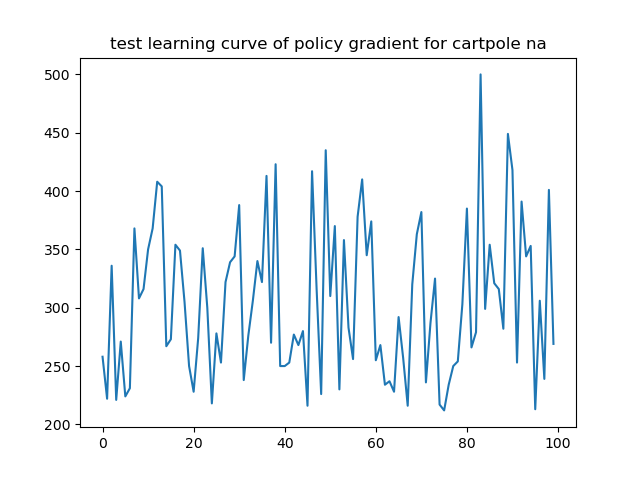
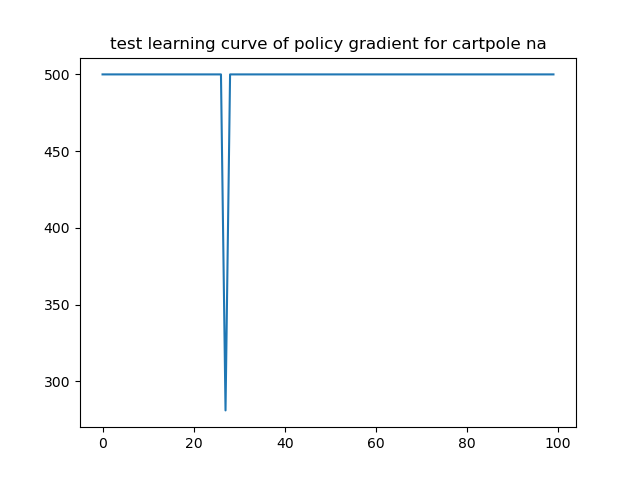
add double dqn

diff --git a/EasyRL/chapter7.py b/EasyRL/chapter7.py
@@ -1,0 +1,235 @@
+from audioop import bias
+from cmath import exp
+from re import U
+from turtle import done
+
+from matplotlib import markers
+import gym
+import math
+import random
+import numpy as np
+import torch
+import torch.nn as nn
+import matplotlib.pyplot as plt
+
+class MLP(nn.Module):
+    def __init__(
+        self,
+        input_dim: int,
+        hidden_dim: int,
+        output_dim: int,
+        bias: bool,
+    ):
+        super(MLP, self).__init__()
+        self.fc1 = nn.Linear(input_dim, hidden_dim, bias=bias)
+        self.fc2 = nn.Linear(hidden_dim, hidden_dim, bias=bias)
+        self.fc3 = nn.Linear(hidden_dim, output_dim, bias=bias)
+        self.gelu = nn.GELU()
+
+    def forward(self, x: torch.Tensor):
+        x = self.fc1(x)
+        x = self.gelu(x)
+        x = self.fc2(x)
+        x = self.gelu(x)
+        x = self.fc3(x)
+        return x
+
+class ReplayBuff:
+    def __init__(self, capacity):
+        self.capacity = capacity
+        self.buffer = []
+        self.position = 0
+
+    def push(self, state, action, reward, next_state, done):
+        if len(self.buffer) < self.capacity:
+            self.buffer.append(None)
+        self.buffer[self.position] = (state, action, reward, next_state, done)
+        self.position = (self.position + 1) % self.capacity
+    
+    def sample(self, batch_size):
+        batch = random.sample(self.buffer, batch_size)
+        state, action, reward, next_state, done = zip(*batch)
+        return state, action, reward, next_state, done
+
+    def __len__(self):
+        return len(self.buffer)
+
+
+class DoubleDQN(object):
+    def __init__(
+        self,
+        env_name: str,
+        capacity: int,
+        train_epochs: int,
+        test_epochs: int,
+        max_iterations: int,
+        epsilon_start: float,
+        epsilon_end: float,
+        epsilon_decay: float,
+        hidden_dim: int,
+        lr: float,
+        bias: bool,
+        seed: int,
+        update_epoch: int,
+        batch_size: int,
+        gamma: float,
+    ):
+        self.env = gym.make(env_name)
+        self.capacity = capacity
+        self.train_epochs = train_epochs
+        self.test_epochs = test_epochs
+        self.max_iterations = max_iterations
+        self.epsilon_start = epsilon_start
+        self.epsilon_end = epsilon_end
+        self.epsilon_decay = epsilon_decay
+        self.update_epoch = update_epoch
+        self.batch_size = batch_size
+        self.gamma = gamma
+
+        torch.manual_seed(seed)
+        self.env.seed(seed)
+        self.input_dim = input_dim = self.env.observation_space.shape[0]
+        self.output_dim = output_dim = self.env.action_space.n
+        self.device = torch.device("cuda" if torch.cuda.is_available() else "cpu")
+        self.policy_net = MLP(input_dim, hidden_dim, output_dim, bias).to(self.device)
+        self.target_net = MLP(input_dim, hidden_dim, output_dim, bias).to(self.device)
+        # Copy the parameters:
+        for target_param, param in zip(self.target_net.parameters(), self.policy_net.parameters()):
+            target_param.data.copy_(param.data)
+        self.optimizer = torch.optim.Adam(self.policy_net.parameters(), lr=lr)
+        self.memory = ReplayBuff(capacity)
+
+        self.frame_idx = 1
+
+    def get_epsilon(self):
+        self.frame_idx += 1
+        epsilon = self.epsilon_end + (self.epsilon_start - self.epsilon_end) * \
+            math.exp(-1. * self.frame_idx / self.epsilon_decay)
+        return epsilon
+
+    def choose_action(self, state, mode):
+        if mode == "train":
+            epsilon = self.get_epsilon()
+            if random.random() > epsilon:
+                with torch.no_grad():
+                    state = torch.tensor(np.array([state]), device=self.device, dtype=torch.float32)
+                    q_values = self.policy_net(state)
+                    action = q_values.max(1)[1].item()
+            else:
+                action = random.randrange(self.output_dim)
+            return action
+        else:
+            with torch.no_grad():
+                state = torch.tensor(np.array([state]), device=self.device, dtype=torch.float32)
+                q_values = self.policy_net(state)
+                action = q_values.max(1)[1].item()
+            return action
+
+    def update(self):
+        if len(self.memory) < self.batch_size:
+            return
+        state_batch, action_batch, reward_batch, next_state_batch, done_batch = self.memory.sample(self.batch_size)
+        state_batch = torch.tensor(state_batch, device=self.device, dtype=torch.float)
+        action_batch = torch.tensor(action_batch, device=self.device).unsqueeze(1)
+        reward_batch = torch.tensor(reward_batch, device=self.device, dtype=torch.float)
+        next_state_batch = torch.tensor(next_state_batch, device=self.device, dtype=torch.float)
+        done_batch = torch.tensor(np.float32(done_batch), device=self.device)
+
+        # DQN:
+        # q_values = self.policy_net(state_batch).gather(dim=1, index=action_batch)
+        # next_q_values = self.target_net(next_state_batch).max(1)[0].detach()
+        # expected_q_values = reward_batch + self.gamma * next_q_values * (1 - done_batch)
+        # loss = nn.MSELoss()(q_values, expected_q_values.unsqueeze(1))
+
+        q_values = self.policy_net(state_batch)
+        next_q_values = self.policy_net(next_state_batch)
+        q_value = q_values.gather(dim=1, index=action_batch)
+        next_target_values = self.target_net(next_state_batch)
+        next_target_q_value = next_target_values.gather(1, torch.max(next_q_values, 1)[1].unsqueeze(1)).squeeze(1)
+        q_target = reward_batch + self.gamma * (next_target_q_value) * (1 - done_batch)
+        loss = nn.MSELoss()(q_value, q_target.unsqueeze(1))
+
+        self.optimizer.zero_grad()
+        loss.backward()
+        for param in self.policy_net.parameters():
+            param.grad.data.clamp_(-1, 1)
+        self.optimizer.step()
+
+    def train(self):
+        rewards = []
+        ma_rewards = []
+        for num_epoch in range(self.train_epochs):
+            epoch_reward = 0
+            state = self.env.reset()
+            for i in range(self.max_iterations):
+                action = self.choose_action(state, "train")
+                next_state, reward, done, info = self.env.step(action)
+                self.memory.push(state, action, reward, next_state, done)
+                state = next_state
+                self.update()
+                epoch_reward += reward
+                if done:
+                    break
+            rewards.append(epoch_reward)
+            if ma_rewards:
+                ma_rewards.append(0.9 * ma_rewards[-1] + 0.1 * epoch_reward)
+            else:
+                ma_rewards.append(epoch_reward)
+            if num_epoch % self.update_epoch == 0:
+                self.target_net.load_state_dict(self.policy_net.state_dict())
+        self.plot(rewards, mode="train", extra="na")
+        self.plot(ma_rewards, mode="train", extra="ma")
+
+    def test(self):
+        rewards = []
+        ma_rewards = []
+        for num_epoch in range(self.test_epochs):
+            epoch_reward = 0.0
+            state = self.env.reset()
+            for i in range(self.max_iterations):
+                action = self.choose_action(state, "test")
+                next_state, reward, done, info = self.env.step(action)
+                state = next_state
+                epoch_reward += reward
+                if done:
+                    break
+            rewards.append(epoch_reward)
+            if ma_rewards:
+                ma_rewards.append(ma_rewards[-1] * 0.9 + epoch_reward * 0.1)
+            else:
+                ma_rewards.append(epoch_reward)
+        self.plot(rewards, mode="test", extra="na")
+        self.plot(ma_rewards, mode="test", extra="ma")
+
+    def plot(self, reward_list, mode: str, extra = str):
+        if mode == 'train':
+            plt.figure()
+            plt.title(f"train learning curve of policy gradient for cartpole {extra}")
+            plt.plot(reward_list)
+            plt.savefig(f"chapter_7_DoubleDQN_train {extra}.png")
+        elif mode == 'test':
+            plt.figure()
+            plt.title(f"test learning curve of policy gradient for cartpole {extra}")
+            plt.plot(reward_list)
+            plt.savefig(f"chapter_7_DoubleDQN_test {extra}.png")
+
+if __name__ == '__main__':
+    engine = DoubleDQN(
+        env_name="CartPole-v1",
+        capacity=10000,
+        train_epochs=500,
+        test_epochs=100,
+        max_iterations=500,
+        epsilon_start=0.9,
+        epsilon_end=0.01,
+        epsilon_decay=500,
+        hidden_dim=256,
+        gamma=0.95,
+        lr=0.0001,
+        bias=True,
+        seed=2022,
+        update_epoch=4,
+        batch_size=64,
+    )
+    engine.train()
+    engine.test()

diff --git a/EasyRL/chapter6.py b/EasyRL/chapter6.py
@@ -167,7 +167,7 @@ class DQN(object):
             if num_epoch % self.update_epoch == 0:
                 self.target_net.load_state_dict(self.policy_net.state_dict())
         self.plot(rewards, mode="train", extra="na")
-        self.plot(rewards, mode="train", extra="ma")
+        self.plot(ma_rewards, mode="train", extra="ma")
 
     def test(self):
         rewards = []
